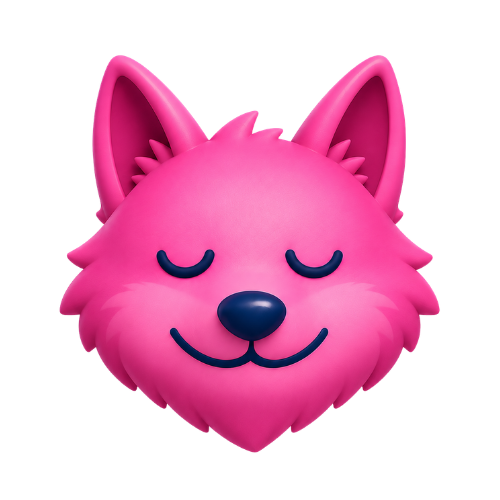
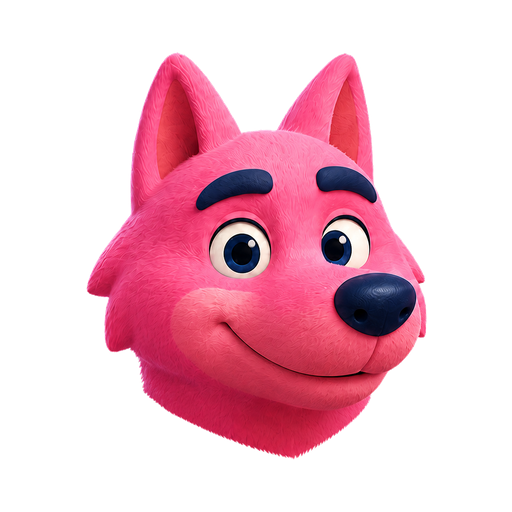
Neuer Wolf, Bunte Tuete verraet sich nicht mehr, 20 tote Slugs raus
WOLF (Wolf-Lieferung wolf-head-square.png):
Der Marker, der ueber den Progress-Tree huepft, ist jetzt der neue Kopf im
Dreiviertelprofil statt des frontalen mit geschlossenen Augen. Fuer einen
Marker, der von links nach rechts wandert, ist das Profil richtiger.
Vier Stellen nutzen dieselbe Datei (Regeln, Handy-Lifecycle, Tree,
Phasen-Intro), deshalb ein Tausch an einer Stelle.
Vorher ausgemessen statt geschaetzt (CLAUDE.md): die Lieferung fuellte 88 %
ihrer Flaeche in der Hoehe, das alte Asset 79.6 %. Bei gleicher CSS-Groesse
waere der Wolf also ploetzlich groesser gewesen. Auf Alpha-Bounding-Box
zugeschnitten und auf exakt 79.7 % Fuellhoehe neu gesetzt, 512x512,
832 KB -> 253 KB.

BUNTE TUETE IM BAUM (Wolf): der Baum zeigt jetzt immer die Tuete, nie das
Unterspiel. Er steht die ganze Runde sichtbar auf der Wand — wer dort schon
die Landkarte oder die Treppe sieht, weiss vorab, welches Spiel kommt, und
bei einer Wundertuete ist genau das die Pointe. Das spezifische Motiv
erscheint erst im Kategorie-Auftritt direkt davor, und dieser Wechsel IST
jetzt der Reveal. Betrifft beide Baeume (QQProgressTree + RoundMiniTree).
Zur Frage "war das bisher auch so": ja, qqSubSlug hatte an beiden Stellen
schon immer Vorrang. Es faellt nur staerker auf, seit die Unterspiel-Motive
alle eine echte Datei haben — sub-hotpotato.png existierte vorher gar nicht.

20 TOTE ICON-SLUGS ENTFERNT (Wolf: "sonst stolpert die naechste KI drueber"):
[…]

diff --git a/frontend/src/components/QQIcon.tsx b/frontend/src/components/QQIcon.tsx
@@ -13,9 +13,6 @@ const QUIRK_CAT_SLUGS = new Set<string>([
 
 export type QQIconSlug =
   // Marker (Cell-Status / Action-Badges) — bestehende Custom-PNGs
-  | 'marker-frost'
-  | 'marker-shield'
-  | 'marker-sanduhr'
   | 'marker-swap'
   // Kategorien — bestehende Custom-PNGs
   | 'cat-schaetzchen'
@@ -81,24 +78,7 @@ export type QQIconSlug =
   | 'group'
   // Fluent Emoji 3D Kandidaten fuer bestehende Custom-PNGs (Kategorien/Subs/Marker).
   // Nicht automatisch im Einsatz — werden via qqCatSlug/qqSubSlug gesteuert.
-  | 'fx-cat-schaetzchen'
-  | 'fx-cat-mucho'
-  | 'fx-cat-bunte-tuete'
-  | 'fx-cat-zehn-von-zehn'
-  | 'fx-cat-cheese'
-  | 'fx-sub-hotpotato'
-  | 'fx-sub-top5'
-  | 'fx-sub-order'
-  | 'fx-sub-map'
-  | 'fx-marker-frost'
-  | 'fx-marker-shield'
-  | 'fx-marker-sanduhr'
-  | 'fx-marker-swap'
   // Alternative Kategorie-Varianten (optional)
-  | 'fx-mucho-alt-light'
-  | 'fx-mucho-alt-thought'
-  | 'fx-zvz-alt-100'
-  | 'fx-zvz-alt-dice'
   // ── CozyQuiz Icon Set, Wolf-Lieferung 2026-08-22 ──────────────────────────
   // 53 Motive im Stil des CozyQuiz-Avatarsets (weiche 3D-Objekte, warme Farben,
   // freigestellt, 512²). Ersetzt die geliehene Fluent-Emoji-3D-Reihe und macht
@@ -162,9 +142,6 @@ export type QQIconSlug =
   | 'react-laugh';
 
 const FALLBACK_EMOJI: Record<QQIconSlug, string> = {
-  'marker-frost':      '❄',
-  'marker-shield':     '🛡',
-  'marker-sanduhr':    '⏳',
   'marker-swap':       '🔄',
   'cat-schaetzchen':   '🎯',
   'cat-mucho':         '🅰',
@@ -215,23 +192,6 @@ const FALLBACK_EMOJI: Record<QQIconSlug, string> = {
   'rocket':            '🚀',
   'anker':             '⚓',
   'group':             '👥',
-  'fx-cat-schaetzchen':   '🎯',
-  'fx-cat-mucho':         '🅰',
-  'fx-cat-bunte-tuete':   '🎁',
-  'fx-cat-zehn-von-zehn': '🎰',
-  'fx-cat-cheese':        '📸',
-  'fx-sub-hotpotato':     '🥔',
-  'fx-sub-top5':          '🏆',
-  'fx-sub-order':         '🔀',
-  'fx-sub-map':           '🗺',
-  'fx-marker-frost':      '❄',
-  'fx-marker-shield':     '🛡',
-  'fx-marker-sanduhr':    '⏳',
-  'fx-marker-swap':       '🔄',
-  'fx-mucho-alt-light':   '💡',
-  'fx-mucho-alt-thought': '💭',
-  'fx-zvz-alt-100':       '💯',
-  'fx-zvz-alt-dice':      '🎲',
   // CozyQuiz Icon Set 2026-08-22
   'award-thief':          '🦝',
   'award-heart':          '💛',

diff --git a/frontend/src/components/CozyQuizPhaseIntroView.tsx b/frontend/src/components/CozyQuizPhaseIntroView.tsx
@@ -17,7 +17,7 @@
 import { useState, useEffect, useLayoutEffect, useMemo, useRef, Fragment } from 'react';
 import type { QQStateUpdate, QQCategory } from '../../../shared/quarterQuizTypes';
 import {
-  QQ_CATEGORY_LABELS, QQ_BUNTE_TUETE_LABELS,
+  QQ_CATEGORY_LABELS,
 } from '../../../shared/quarterQuizTypes';
 import { useLangFlip, bt, qqArenaType } from '../cozyQuizShared';
 import { isThemed, isQuietMotion } from '../qqTheme';
@@ -113,15 +113,19 @@ export function RoundMiniTree({ state: s, catColor }: { state: QQStateUpdate; ca
           Highlight-Ring; der Wolf schwebt darüber statt drauf zu sitzen. */}
       {phaseEntries.map((e, i) => {
         const label = QQ_CATEGORY_LABELS[e.category];
-        const subSlug = e.bunteTueteKind ? qqSubSlug(e.bunteTueteKind) : null;
         const catSlug = qqCatSlug(e.category);
         // 2026-05-11 (Wolf-Bug 'onlyConnect zeigt 🎁 statt 🧩'): bei Bunte-
         // Tüte-Subs OHNE eigenes PNG (onlyConnect, bluff, oneOfEight) NICHT
         // auf cat-bunte-tuete (= 🎁) fallback. Stattdessen Sub-Emoji nehmen
         // (passend zum Badge: 🧩 / 🎭 / 🕵). Nur Quiz-Kategorien ohne Sub
         // dürfen catSlug nutzen.
-        const iconSlug = e.bunteTueteKind ? subSlug : catSlug;
-        const emojiFallback = e.bunteTueteKind ? QQ_BUNTE_TUETE_LABELS[e.bunteTueteKind].emoji : label.emoji;
+        // 2026-08-22 (Wolf): im Baum immer die Tüte, nie das Unterspiel. Der
+        // Baum verriet sonst die ganze Runde im Voraus, welches Spiel kommt —
+        // bei einer Wundertüte ist genau das die Pointe. Das spezifische Motiv
+        // kommt erst im Kategorie-Auftritt (heroIconSlug weiter unten), und
+        // dieser Wechsel IST der Reveal.
+        const iconSlug = catSlug;
+        const emojiFallback = label.emoji;
         const isPast = i < displayIdx;
         const isCurrent = i === displayIdx;
         const dotLeft = i * (DOT + GAP);

diff --git a/frontend/src/components/QQProgressTree.tsx b/frontend/src/components/QQProgressTree.tsx
@@ -4,7 +4,7 @@ import { QQ_CATEGORY_LABELS, QQ_CATEGORY_COLORS, QQ_BUNTE_TUETE_LABELS } from '.
 import { QQ_PHASE_COLORS, getRoundColor } from '../qqDesignTokens';
 import { QQ_COLORS } from '../../../shared/qqColors';
 import { isThemed, getActiveTheme } from '../qqTheme';
-import { QQIcon, qqCatSlug, qqSubSlug } from './QQIcon';
+import { QQIcon, qqCatSlug } from './QQIcon';
 import { CozyGameIcon } from './CozyGameIcon';
 
 type Variant = 'hero' | 'inline' | 'panel' | 'mini' | 'showcase';
@@ -867,9 +867,14 @@ export default function QQProgressTree({
                   // Dots zeigten rohe OS-Kategorie-Emoji statt der neuen cozy3d-
                   // Kategorie-Icons (PNG). Slug holen (Sub-Mechanik bevorzugt),
                   // Fallback = Emoji wenn kein Icon existiert (z.B. deaktivierte Subs).
-                  const catSlug = e
-                    ? (e.bunteTueteKind ? qqSubSlug(e.bunteTueteKind) : qqCatSlug(e.category))
-                    : null;
+                  // 2026-08-22 (Wolf): Bunte Tüte zeigt im Baum IMMER die Tüte,
+                  // nie das Unterspiel. Der Baum steht die ganze Runde sichtbar
+                  // auf der Wand — wer dort schon die Landkarte oder die Treppe
+                  // sieht, weiß vorab, welches Spiel kommt. Genau das ist bei
+                  // einer Wundertüte die Pointe. Das spezifische Motiv erscheint
+                  // erst im Kategorie-Auftritt direkt davor, und dieser Wechsel
+                  // IST der Reveal.
+                  const catSlug = e ? qqCatSlug(e.category) : null;
                   const isPlaceholder = e === null;
                   return (
                     <div

diff --git a/frontend/src/components/CozyQuizRulesView.tsx b/frontend/src/components/CozyQuizRulesView.tsx
@@ -30,7 +30,7 @@ import QQProgressTree from './QQProgressTree';
 
 type AbilityBadge = {
   /** PNG-Slug aus QQIcon, falls vorhanden — sonst nur Emoji. */
-  slug?: 'marker-shield' | 'marker-sanduhr' | 'marker-swap';
+  slug?: 'marker-swap';   // 2026-08-22: Schild und Sanduhr ausgebaut, siehe QQ_BOARD_ACTIONS_RETIRED
   emoji: string;
   label: string;
   accent: string;

diff --git a/frontend/src/components/CozyQuizActionCard.tsx b/frontend/src/components/CozyQuizActionCard.tsx
@@ -19,7 +19,7 @@ import { isThemed } from '../qqTheme';
 export type ActionCardData = {
   count: number;
   emoji?: string;
-  slug?: 'marker-sanduhr' | 'marker-shield' | 'marker-swap';
+  slug?: 'marker-swap';   // 2026-08-22: Schild und Sanduhr ausgebaut, siehe QQ_BOARD_ACTIONS_RETIRED
   label: string;
   limit?: string;
   accent: string;
